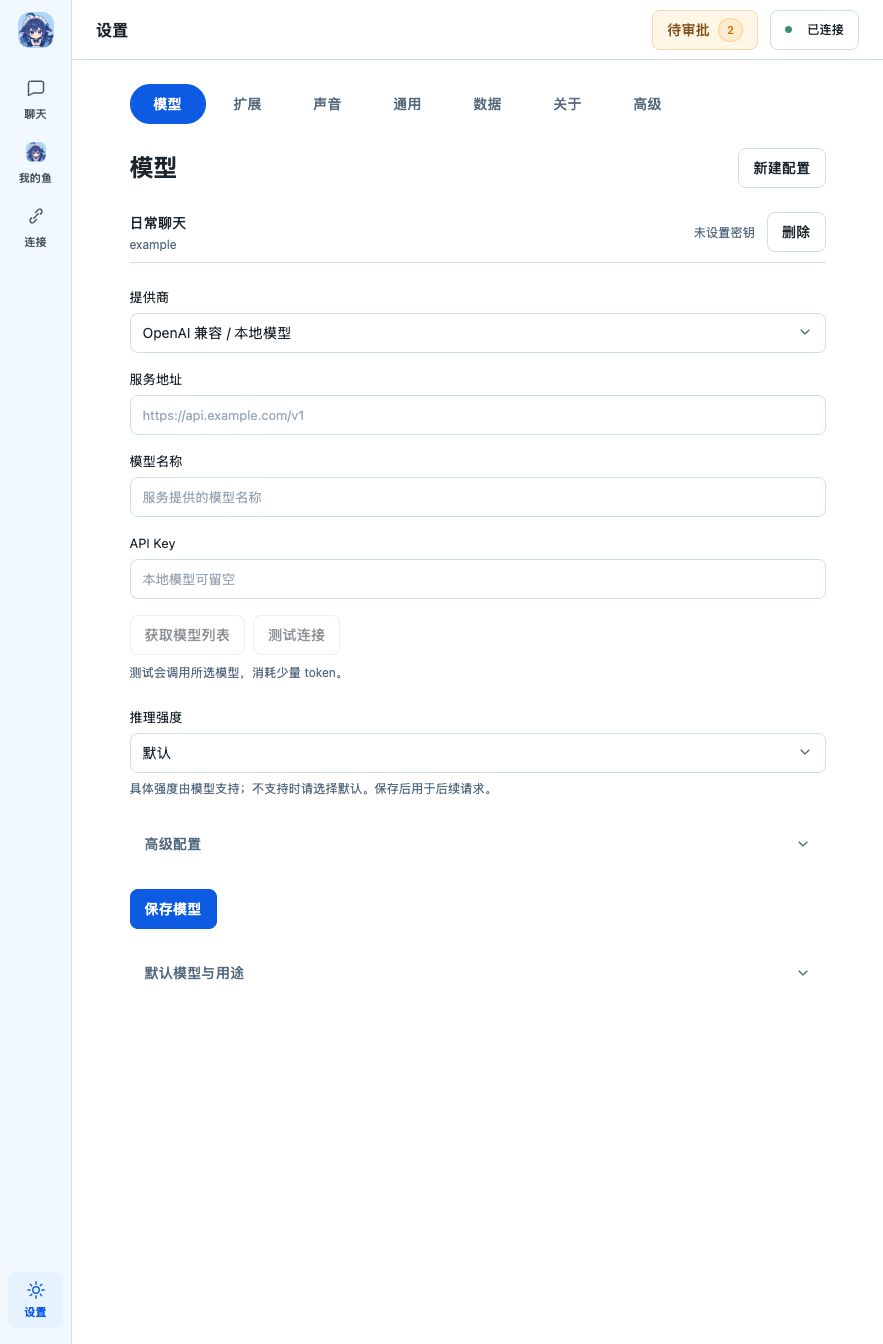
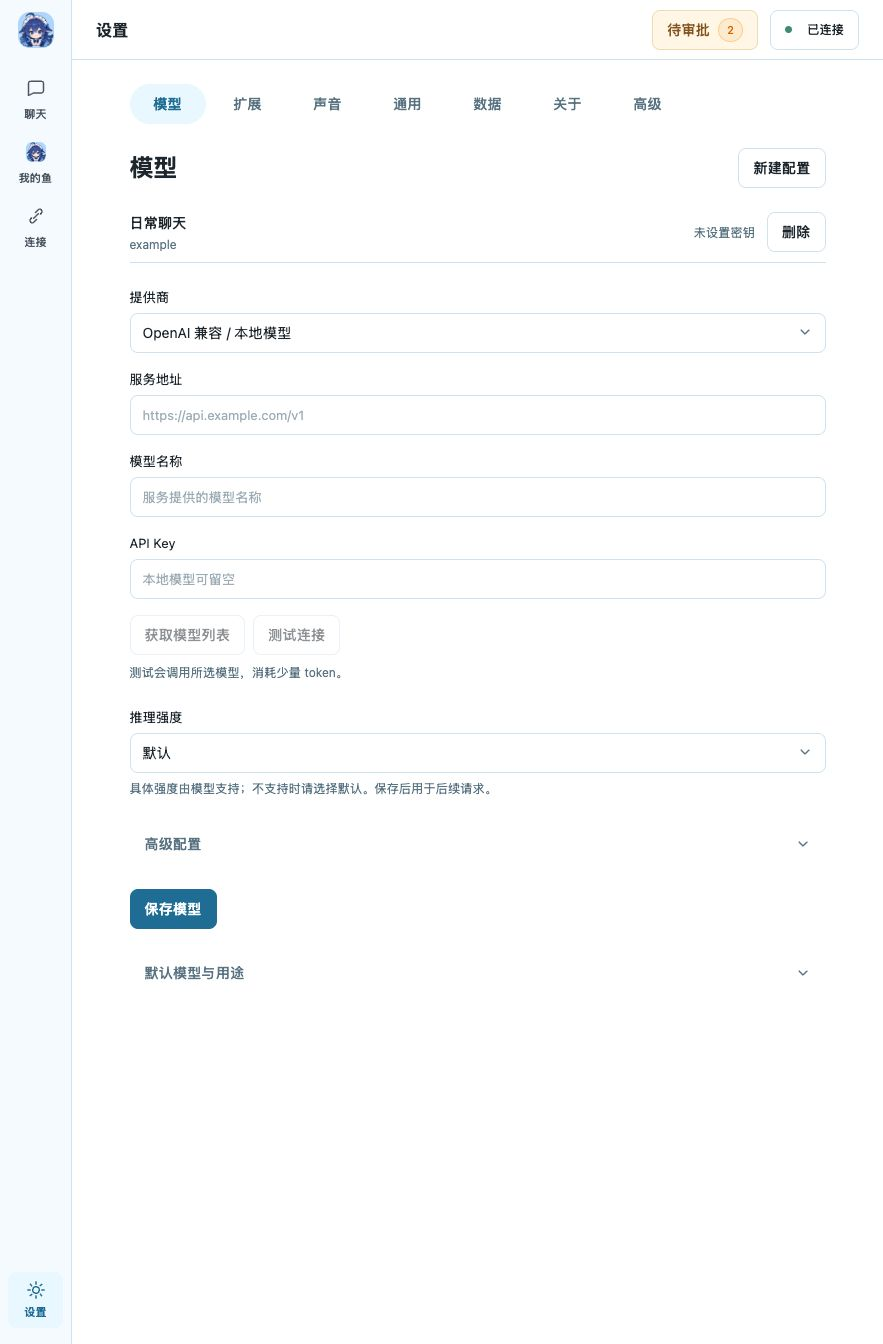
style: 调整浅海蓝配色并弱化页签选中底色

Changed region(s): [[0.1223, 0.6562, 0.2446, 0.7188], [0.1529, 0.0625, 0.2446, 0.0938], [0.0306, 0.9688, 0.0612, 1.0]]

diff --git a/apps/desktop/src/style.css b/apps/desktop/src/style.css
@@ -8,17 +8,17 @@
   background: #f7f8fa;
   font-size: 14px;
   font-synthesis: none;
-  --border: #d4e3f2;
-  --border-strong: #8fb9e4;
-  --muted: #61758a;
-  --brand: #0866e6;
+  --border: #d4e7f1;
+  --border-strong: #93bfd3;
+  --muted: #647e8d;
+  --brand: #22789f;
   --accent: var(--brand);
-  --accent-hover: #0757c4;
-  --accent-muted: #456e99;
-  --soft: #eaf4ff;
-  --surface-soft: #f4f9ff;
-  --focus-ring: #8fc7ff;
-  --selection: #d4e9ff;
+  --accent-hover: #1d668a;
+  --accent-muted: #4e7f98;
+  --soft: #ecf8fe;
+  --surface-soft: #f6fbfe;
+  --focus-ring: #a6d8ef;
+  --selection: #daf0fa;
   --control-height: 40px;
   --control-radius: 8px;
   --field-gap: 6px;
@@ -374,7 +374,9 @@ fieldset > .ui-button,
 }
 .section-tabs-wrap { margin-bottom: var(--section-gap); }
 .section-tabs { gap: 4px; }
-.section-tabs [aria-selected="true"] { color: var(--accent); }
+.section-tabs [data-tabs-indicator] { background: var(--soft); }
+.section-tabs [aria-selected="true"],
+.section-tabs [data-tabs-label] { color: var(--accent); }
 .select-validation { position: absolute; opacity: 0; width: 1px; height: 1px; pointer-events: none; }
 .section-tabs button { font-size: 14px; }
 .section-heading {

diff --git a/specs/spec-018-soft-blue/plan.md b/specs/spec-018-soft-blue/plan.md
@@ -1,0 +1,40 @@
+# Plan
+
+## 范围
+单实施Agent改颜色，root维护规格与现有预览目视，新独立Agent验收。当前dev9557f0a，开始干净。用户持续每阶段本地commit授权保留，无push授权。
+
+不仅降低主色饱和度，还将页签indicator/label产品层样式与主按钮分离。源码事实：beUI TabsTrigger支持data-tabs-indicator和data-tabs-label，后者白字覆盖层在选择动画中参与遮罩。优先在现有section-tabs样式规则处理颜色，不改变组件状态/属性协议。
+
+## 验证
+S0，仅diff、一次必要配色对比度计算、root现有cua_repl预览目视并保存两张代表图。实施Agent不另起UI采集。独立验收审diff及已有图，不重复采集/检查。不test/build/lint/typecheck/重打包；按实际证据记录，满足条件后commit并停止。
+
+## 偏好
+用户已答复选择“浅海蓝，更清透轻盈”，不采用蓝灰候选。最终主色#22789F、hover#1D668A、浅底#ECF8FE、侧栏#F6FBFE、focus#A6D8EF，边框#D4E7F1/强调边框#93BFD3，辅助字#647E8D/选中次要字#4E7F98，文本选择#DAF0FA；实施核对一次主要文字对比度，必要时仅调整亮度到可读范围。上一版截图和DMG均不当作本次结果。
+
+## Implementation Report
+
+### Summary / 根因与职责
+`/root/implement_sea_blue`实施完成，源码冻结。此前高饱和实色既用于主要操作又用于页签选中，视觉强调过重；beUI页签独立白字覆盖层使仅改浅底会导致文字低对比。修复集中在产品共享样式：调整浅海蓝token，并在已有section-tabs规则处同时指定indicator浅底与label海蓝字，不改beUI动画/遮罩/状态逻辑。
+
+### Files Changed
+- `apps/desktop/src/style.css`：唯一源码变更；替换颜色token并补全产品页签两个颜色slot的样式。无布局、间距、尺寸、事件或业务变化，既有beUI主题映射自动采用新颜色。
+- `.ai/decisions/010-desktop-webui-redesign.md`：记录用户明确选择浅海蓝及本轮取代旧配色的决定。
+- 本Plan：记录实施与实际证据；未修改root维护的Spec状态、index或handoff。
+
+### Important Decisions
+最终主色#22789F、hover#1D668A、浅底#ECF8FE、侧栏/禁用#F6FBFE、focus#A6D8EF；边框#D4E7F1/强调#93BFD3、辅助字#647E8D/选中次要字#4E7F98、文本选择#DAF0FA。主色较建议#247AA3仅降低少量亮度，色相/浅海蓝方向保持。主要操作仍使用实色白字，页签浅底深字形成轻量选中层级；红黄绿状态及平台识别色保持。
+
+### Validation
+- Risk Level: S0，纯颜色。
+- 审阅唯一源码diff，确认仅颜色值及section-tabs颜色引用变化；没有新增覆盖层、组件状态或业务修改。
+- 首次sRGB对比度计算：白字对建议#247AA3为4.79:1，该海蓝字对#ECF8FE为4.43:1。因后者低于4.5，将主色微调为#22789F后仅针对变更颜色重算：白字4.94:1、页签深字4.56:1。没有无理由重复已通过检查。
+- 未运行test/build/lint/typecheck或原生打包，未另起浏览器或采图。root负责既有隔离预览目视；此报告不将待进行的视觉检查写为通过。
+
+### Known Limitations / Remaining Questions
+无实施侧已知阻塞。旧DMG不包含本轮颜色。实施Agent未执行Git写操作，无剩余需求问题。
+
+## root视觉记录
+完整实施报告已读取处理，源码冻结，root审阅唯一源码diff。cua_repl在现有隔离预览读取实际primary #22789f/soft #ecf8fe；实际目视模型浅底深字页签/主要按钮，以及数据checkbox/输入焦点，配色与层级符合方向。没有调用真实服务或执行保存/恢复。模型图更新docs/design/desktop-webui-blue.jpg，数据图build/sea-blue/data-blue.jpg，两张均883×1344当前完整视口；裁剪截图接口首次得到空白，已用正常完整视口截图覆盖，不将空白图作为证据。预览已返回模型页并markDeliverable。新独立验收已完成，不追加检查。
+
+## 独立验收与Git
+新独立/root/accept_sea_blue PASS，完整报告已读取处理；实际查看两张最终图并审阅唯一源码diff和相关主题引用，无返工，未重复计算或采集。root按持续每阶段授权完成本地commit，确切hash以git log为准；未push/PR/合并，远端未刷新。Spec018 Done，满足停止条件。

diff --git a/specs/spec-018-soft-blue/acceptance.md b/specs/spec-018-soft-blue/acceptance.md
@@ -1,0 +1,32 @@
+# Acceptance
+
+## Result
+PASS
+
+`/root/accept_sea_blue` 为本轮新的独立验收 Agent，未参与实施，未修改业务代码。依据用户明确选择的“浅海蓝，更清透轻盈”验收，未采用已被取代的蓝灰候选或 Spec017 纯蓝要求。
+
+## Spec Coverage
+- 浅海蓝已落实：共享 token 采用主色 `#22789F`、悬停 `#1D668A`、浅底 `#ECF8FE`，边框、焦点、辅助字与侧栏同步。模型截图中浅水蓝选中页签与实色保存按钮层级清楚，页面保留白色主内容面。
+- 页签覆盖层处理完整：产品 `.section-tabs` 同时给 `data-tabs-indicator` 浅底，以及选中标签和 `data-tabs-label` 海蓝文字。实际查看模型、数据两种选中页签，未出现浅底白字或标签不可读问题；beUI 原有动画、遮罩、键盘及状态代码未变。
+- 主按钮保留白字，模型截图可辨。数据截图中勾选框、未选框及聚焦输入边框可辨；禁用诊断按钮与可操作按钮保持区别。黄色待审批与绿色连接状态保留。
+- 唯一源码 diff 位于 `apps/desktop/src/style.css`，只修改颜色值及颜色属性引用，未修改间距、尺寸、布局、业务事件、依赖、数据或目录。既有 `beui-theme.css` 将主色、悬停、浅底、边框、焦点映射到共享 token，无重复组件级调色源。
+- Decision010 与当前 handoff/Spec/Plan 对用户偏好和未打包边界描述一致。代码与视觉验收通过；授权本地 commit 由协调 Agent 在本报告后执行，未将尚未执行的提交写成已完成。无 push 授权，本验收未执行 Git 写操作。
+
+## Validation
+- Risk Level: S0。
+- Evidence Reviewed / Checks Performed:
+  - 已读取 AGENTS、mission、tech-stack、全部有效 `.ai/rules`、Spec018 Spec/Plan、完整实施报告与 root 视觉记录、Decision010 最新条目、当前 handoff。
+  - 实际审阅 `git status --short --branch` 和本轮源码、决策、handoff、规格索引 diff：当前 `dev`，工作区为本轮修改；只读检查，未切分支或改动暂存区。
+  - 定向阅读现有 `beui-theme.css` 映射，以及 beUI Button 主色/悬停、Tabs indicator/label 的相关源码，确认颜色在产品样式职责层调整，白字覆盖层同根因路径已覆盖。
+  - 实际通过 `view_image` 查看 `docs/design/desktop-webui-blue.jpg` 与 `build/sea-blue/data-blue.jpg`，两张均为正常的 883×1344 完整视口图。核对模型页轻量选中态、白字主按钮、禁用按钮，以及数据页勾选框和输入焦点，未发现本轮颜色导致的不可读或遮挡。
+  - 审阅实施报告中的对比度证据：初始建议色在浅底上为 4.43:1，微调后主按钮白字 4.94:1、页签深字 4.56:1；本验收未重复计算。root 的实际 DOM token 与浏览器操作属于其记录证据，本验收未冒称亲自执行。
+- 未运行测试、build、lint、typecheck、业务回归或原生打包；未另起浏览器、重复采图或扩大 UI 矩阵。当前纯颜色 diff 与已有代表图已满足 S0 所需证据。
+
+## Issues
+无本轮直接相关的具体未解决问题。
+
+## Regression Risks
+源码 diff 不涉及布局或交互，保留现有组件语义与业务边界。本次代表图来自隔离 fixture，不证明真实模型或平台服务、保存/恢复、原生包及全平台运行结果；未执行这些操作。此前 DMG 不包含本轮颜色，不能作为本轮产物交付。当前远端/PR 状态未刷新或核实，不作同步声明。
+
+## Required Rework
+无。满足本轮验收停止条件，不追加验证。

diff --git a/.ai/prompts/task-handoff.md b/.ai/prompts/task-handoff.md
@@ -1,5 +1,9 @@
 # Task Handoff
 
+## 当前阶段：Spec018浅海蓝已完成
+
+用户否决Spec017过艳纯蓝，明确选择“浅海蓝，更清透轻盈”。dev基线9557f0a，开始干净；Spec018 Done。实施/root/implement_sea_blue完整报告已读取，仅style.css颜色及产品页签indicator/label规则，主色#22789F、hover#1D668A、soft#ECF8FE；页签浅底海蓝字，主按钮实色白字，保留布局和逻辑。S0对比度白字4.94、页签4.56；root在cua_repl预览目视模型和数据并保存docs/design/desktop-webui-blue.jpg及build/sea-blue/data-blue.jpg，均最终883×1344完整视口。裁剪空白图已替换，预览回到模型页并保留。新独立/root/accept_sea_blue PASS，完整报告已读取处理，两图实际目视，无返工。不test/build/lint/typecheck/打包。root按持续授权完成本地commit，确切hash以git log为准；未push/PR/合并，远端未刷新。旧DMG不含本轮颜色，停止追加验证。下方为历史。
+
 ## 当前阶段：Spec017大肥鱼蓝色主题去紫已完成
 
 用户明确否决偏紫UI，要求大肥鱼蓝色；dev基线cfa2953，开始干净，上一阶段已本地commit无须空提交。Spec017 Done，/root/implement_pure_blue完整报告已读取。主色#0866E6、hover#0757C4、浅底#EAF4FF，同系焦点/边框统一beUI引用，保持Spec016间距和所有逻辑；仅两CSS及button一行颜色class。S0，diff审阅/白字5.18对比度及root用cua_repl当前http://127.0.0.1:53427/隔离预览目视聊天/模型/数据配色完成，模型图docs/design/desktop-webui-blue.jpg，数据图build/pure-blue/data-blue.jpg。新独立/root/accept_pure_blue PASS，完整报告已读取处理，两图实际目视，无返工。不test/build/lint/typecheck/重打包；root按持续授权完成本地commit，确切hash以git log为准，未push/PR/合并，远端未刷新。旧DMG不含本轮样式，满足停止条件。下方为历史。

diff --git a/specs/spec-018-soft-blue/spec.md b/specs/spec-018-soft-blue/spec.md
@@ -1,0 +1,29 @@
+# Spec：浅海蓝与轻量选中底色
+
+## 背景
+用户否决Spec017高饱和纯蓝的观感。dev基线9557f0a，开始干净。当前Done，新独立验收PASS；用户已明确选择“浅海蓝，更清透轻盈”。
+## 目标
+蓝色与大肥鱼娘形象协调，页面安静、耐看；主操作有强调，页签等选中态保持轻量。
+## 非目标
+不改布局、间距、尺寸、交互、品牌素材、依赖或数据，不重打发行包。
+## 当前行为
+高饱和#0866E6同时用于主按钮和页签实心底，选中态与主操作同等抢眼。beUI pill页签还有独立白字覆盖层，不能只换浅底而遗漏文字颜色。
+## 目标行为
+主操作采用海蓝#22789F、悬停#1D668A，页签/导航选中采用浅水蓝底#ECF8FE和海蓝字；焦点、边框、气泡使用同系轻淡颜色。保留成功/警告/错误及平台识别色。
+## 功能需求
+1. 从现有共享token调整整套颜色，不追加重复覆盖。
+2. 在产品页签样式层明确选中背景及data-tabs-label文字颜色，保留beUI动画、键盘和遮罩逻辑。
+3. 主按钮白字可读；选中标签不能因浅底留下白字。
+## 边界条件
+默认/选中/悬停/焦点/禁用；页签文字覆盖层与主按钮foreground独立。
+## 技术约束
+纯颜色S0，预计仅style.css及必要主题/产品样式引用；不改底层状态逻辑。
+## 兼容性要求
+共享Desktop/Web颜色保持一致，Spec016间距保留；旧DMG不包含本轮源码。
+## 验收标准
+- [x] 全套颜色呈浅海蓝观感，主操作/选中态层级清楚。
+- [x] 页签浅底深字，主按钮白字可读；只改展示颜色。
+- [x] 当前预览代表状态目视通过，新独立验收PASS。
+- [x] 按持续授权本地commit，未push，未打包边界准确。
+## 待确认问题
+无。用户已明确选择浅海蓝，取代此前蓝灰候选。

diff --git a/specs/README.md b/specs/README.md
@@ -35,3 +35,5 @@
 - [Spec 016：表单间距收紧](spec-016-form-spacing/spec.md)：[独立验收PASS](spec-016-form-spacing/acceptance.md)；统一字段、说明、分组与操作区间距，保持现有beUI与业务行为，本轮源码/预览交付，未重打发行包。
 
 - [Spec 017：大肥鱼蓝色主题去紫](spec-017-pure-blue-theme/spec.md)：[独立验收PASS](spec-017-pure-blue-theme/acceptance.md)；统一纯蓝主色、浅蓝底色及beUI状态配色，本轮源码/预览交付。
+
+- [Spec 018：浅海蓝与轻量选中态](spec-018-soft-blue/spec.md)：[独立验收PASS](spec-018-soft-blue/acceptance.md)；采用用户选择的清透浅海蓝，区分主操作与浅底深字页签。
